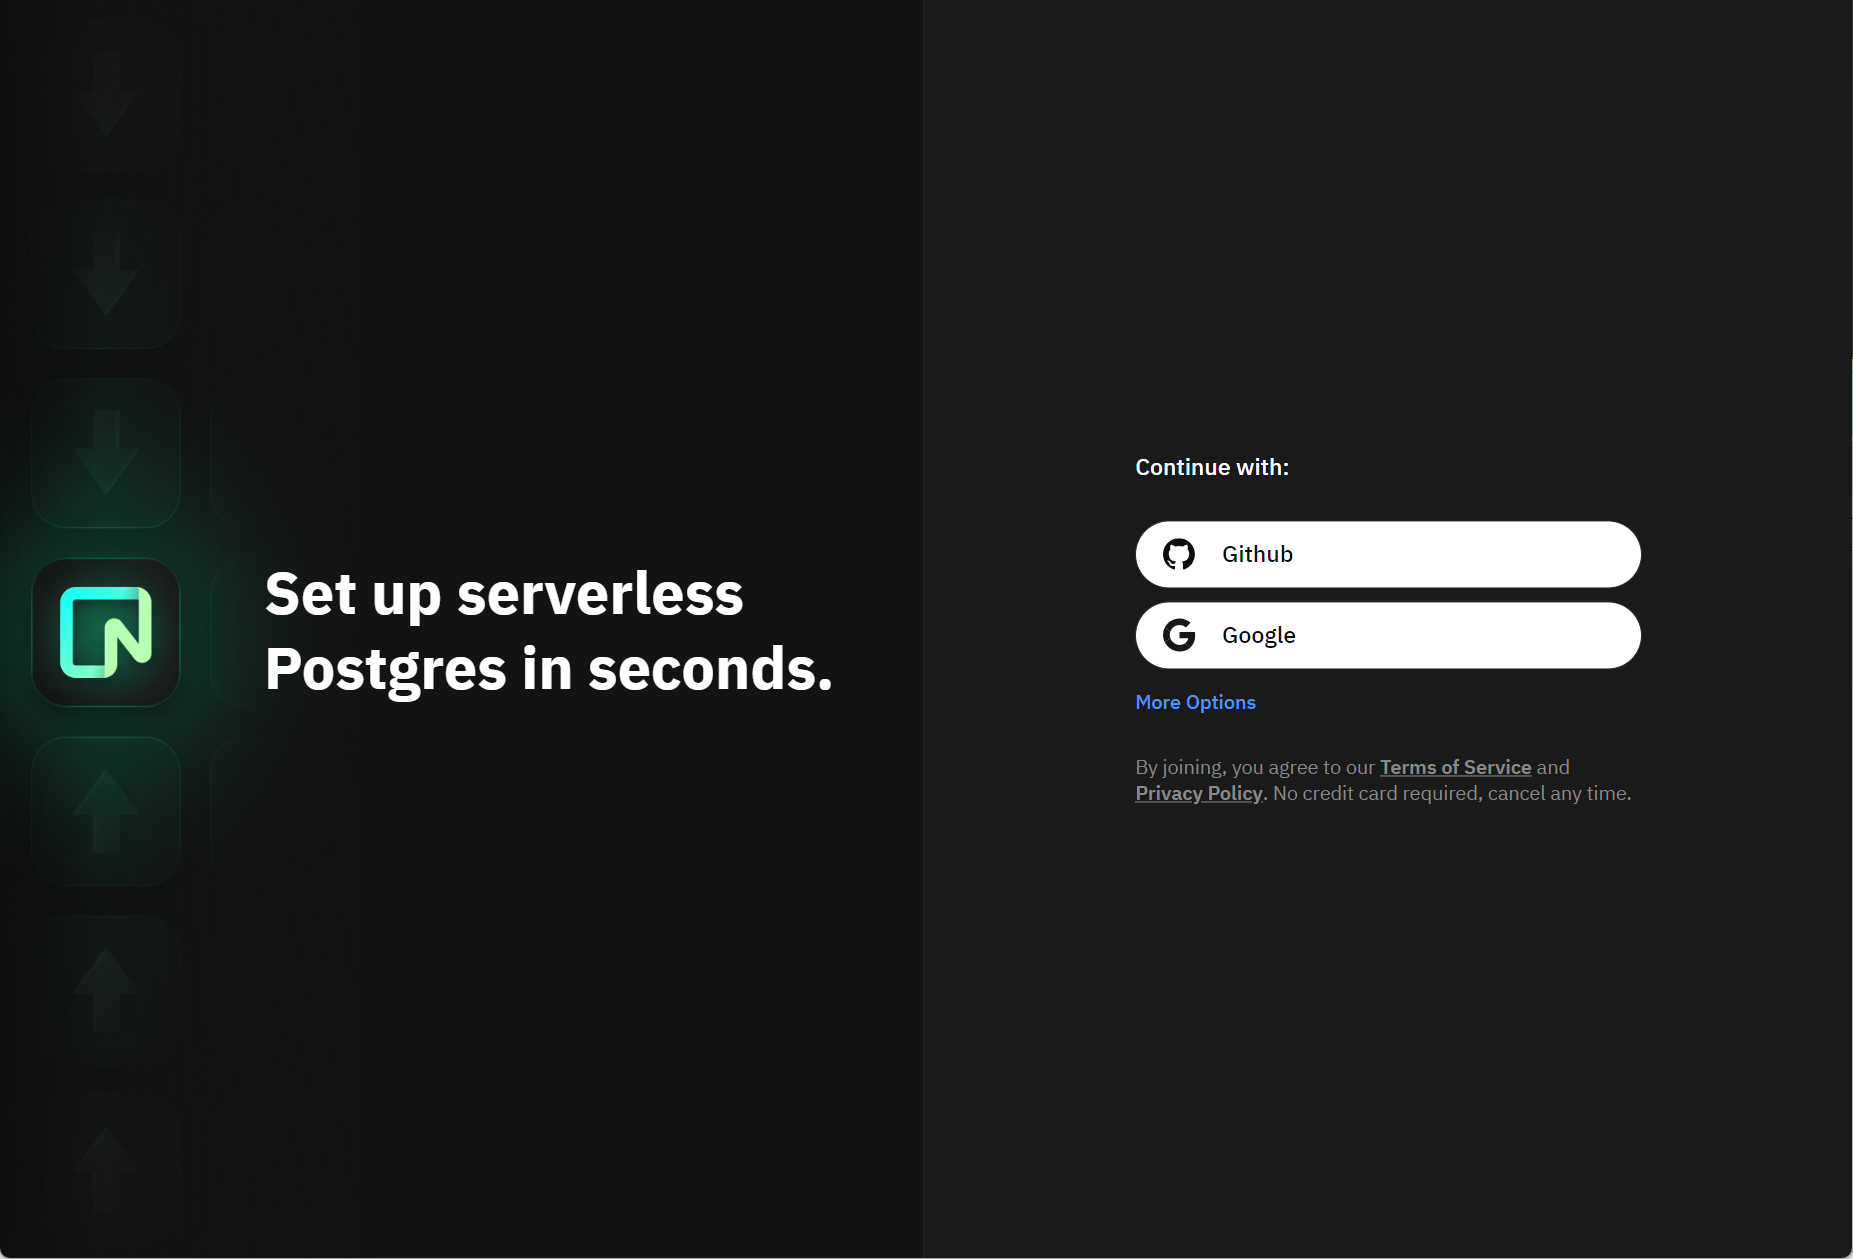
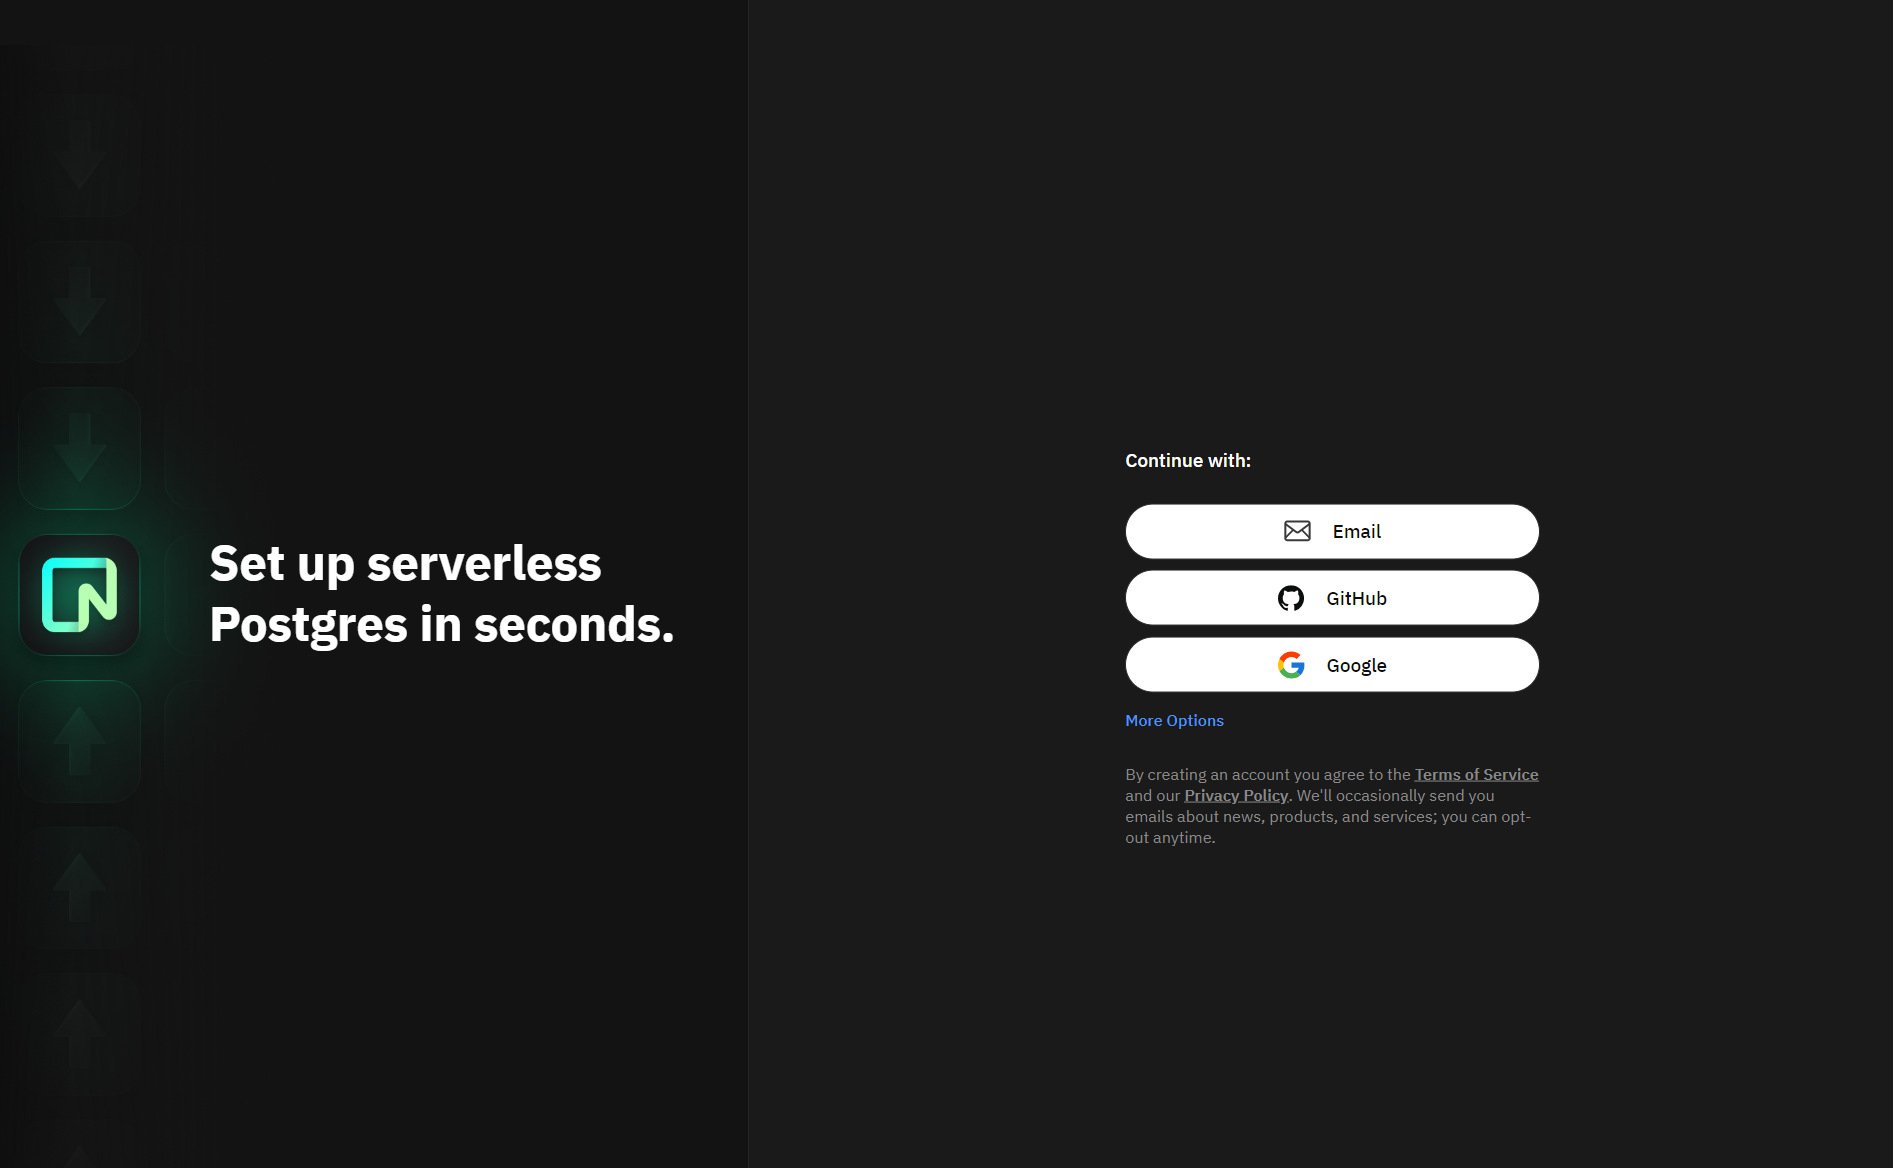
Updates for email login

Changed region(s): [[0.5845, 0.3699, 0.8921, 0.7397], [0.0, 0.4623, 0.4614, 0.5548], [0.9843, 0.9863, 1.0, 1.0]]

diff --git a/content/docs/introduction/pro-plan.md b/content/docs/introduction/pro-plan.md
@@ -32,7 +32,7 @@ The Neon Pro Plan comes with the following advanced features, and we plan to add
 - **Autoscaling:** The _Autoscaling_ feature automatically adjusts compute size based on demand. You set a maximum and minimum compute size, and the Autoscaling feature automatically scales compute resources between those boundaries for optimum performance and cost-efficiency. No manual intervention is required to handle sudden usage spikes, and no downtime is required to reconfigure system resources. Neon Pro Plan users can enable and configure Autoscaling in the Neon Console. For instructions, see [Autoscaling configuration](/docs/manage/endpoints#compute-size-and-autoscaling-configuration).
 - **Larger computes:** The Neon Pro Plan supports computes with up to **7 vCPUs and 28 GB of RAM**, providing the processing power  to handle any workload. By comparison, the Neon Free Tier provides .25 vCPUs and 1GB of RAM, which is great for prototyping and evaluation but less than needed at scale. For configuration instructions, see [Compute size configuration](/docs/manage/endpoints#compute-size-and-autoscaling-configuration).
 - **Configurable Auto-suspend:** The Neon Free Tier automatically suspends computes after 5 minutes of inactivity. With the Neon Neon Pro Plan, you can increase or decrease this time period, or you can disable the Auto-suspend feature entirely. A shorter delay, such as 60 seconds, can potentially reduce compute costs. A longer delay keeps your compute active for longer intervals, reducing the number of cold starts. To prevent cold starts entirely, in cases where even a few seconds delay is too much, you can disable the Auto-suspend feature entirely so that your compute is always active. The Auto-suspend feature is configured in the Neon Console. For instructions, see [Auto-suspend configuration](/docs/manage/endpoints#auto-suspend-configuration).
-- **Project sharing:** The _Project sharing_ feature allows you to share your Neon projects with other Neon users. Project sharing is managed on the **Settings** page in the Neon Console. Simply add the Google or GitHub email account of the user you want to share your project with. Projects can be shared with any Neon user, including Neon Free Tier users. Usage is applied to the project owner's Neon account. For instructions, see [Share a project](/docs/manage/projects#share-a-project).
+- **Project sharing:** The _Project sharing_ feature allows you to share your Neon projects with other Neon users. Project sharing is managed on the **Settings** page in the Neon Console. Simply add the email account of the user you want to share your project with. Projects can be shared with any Neon user, including Neon Free Tier users. Usage is applied to the project owner's Neon account. For instructions, see [Share a project](/docs/manage/projects#share-a-project).
 - **Read replicas:** Neon's read replica feature enhances scalability and performance by allowing you to create read-only compute instances that operate on the same data as your read-write computes. With this feature, you can offload analytics or reporting queries, efficiently distribute read requests to achieve higher throughput, or provide read-only data access to certain users or applications. For more information, see [Read replicas](/docs/introduction/read-replicas).
 
 ### Added support

diff --git a/content/docs/manage/roles.md b/content/docs/manage/roles.md
@@ -7,7 +7,7 @@ redirectFrom:
 updatedOn: '2023-11-02T10:54:40.458Z'
 ---
 
-In Neon, roles are Postgres roles. Each Neon project is created with a default Postgres role that takes its name from your Neon account (the Google, GitHub, or partner account that you registered with). This role owns the ready-to-use database (`neondb`) that is created in your Neon project's primary branch.
+In Neon, roles are Postgres roles. Each Neon project is created with a default Postgres role that takes its name from your Neon account (the email, GitHub, Google, or partner account that you registered with). This role owns the ready-to-use database (`neondb`) that is created in your Neon project's primary branch.
 
 Your default Postgres role and roles created in the Neon console, API, and CLI are granted membership in the [neon_superuser](#the-neon_superuser-role) role. Roles created with SQL from clients like [psql](/docs/connect/query-with-psql-editor), [pgAdmin](https://www.pgadmin.org/), or the [Neon SQL Editor](/docs/get-started-with-neon/query-with-neon-sql-editor) are only granted the basic [public schema privileges](/docs/manage/database-access#public-schema-privileges) granted to newly created roles in a standalone Postgres installation. These users must be selectively granted permissions for each database object. For more information, see [Manage database access](/docs/manage/database-access).
 

diff --git a/content/docs/get-started-with-neon/signing-up.md b/content/docs/get-started-with-neon/signing-up.md
@@ -10,7 +10,7 @@ updatedOn: '2023-10-24T18:56:54.981Z'
 
 You can sign up for free and upgrade to a paid plan when you are ready to scale. For information about our Neon Free Tier limits, see [Neon Free Tier](/docs/introduction/free-tier). For information about Neon's paid plan options, see [Neon plans](/docs/introduction/plans).
 
-Signing up for Neon is easy. Simply navigate to [https://console.neon.tech](https://console.neon.tech) and sign in with a Github or Google account.
+Signing up for Neon is easy. Simply navigate to [https://console.neon.tech](https://console.neon.tech) and sign in with your email, Github, or Google account.
 ![Neon console sign up](/docs/get-started-with-neon/neon_signin.png)
 
 After signing in, you are directed to the Neon Console where you can create your first project. For instructions, see [Create your first project](/docs/get-started-with-neon/setting-up-a-project).

diff --git a/content/docs/guides/project-sharing-guide.md b/content/docs/guides/project-sharing-guide.md
@@ -12,7 +12,7 @@ The [Neon Pro Plan](/docs/introduction/pro-plan) lets you share your Neon projec
 You can share your Neon project with anyone. The only requirement is that the user has a Neon account. The account can be a Neon Free Tier account or Neon Pro Plan account.
 
 1. If the user does not have a Neon account, ask them to sign up. You can provide your users with the following instructions: [Sign up](/docs/get-started-with-neon/signing-up).
-2. Request the email address associated with the account the user signed up with. For example, if the user signed up with their Google account, ask for the email address associated with their Google account.
+2. Request the email address the user signed up with. If the user signed up with a Google or GitHub account account, ask for the email address associated with that account.
 
 ## Share your project
 

diff --git a/content/docs/reference/glossary.md b/content/docs/reference/glossary.md
@@ -231,7 +231,7 @@ A usage-based paid plan offered by Neon. See [Neon plans](/docs/introduction/pla
 
 ### Neon user
 
-The user account that registers and authenticates with Neon using a GitHub or Google account. After authenticating, a Neon user account can create and manage projects, branches, users, databases, and other project resources.
+The user account that registers and authenticates with Neon using an email, GitHub, Google, or partner account. After authenticating, a Neon user account can create and manage projects, branches, users, databases, and other project resources.
 
 ### NeonVM
 

diff --git a/content/docs/manage/overview.md b/content/docs/manage/overview.md
@@ -36,7 +36,7 @@ Neon account
 
 ## Neon account
 
-This is the account you used to sign up with Neon. Neon currently supports signing up with GitHub, Google, or partner accounts.
+This is the account you used to sign up with Neon. Neon supports signing up with an email, GitHub, Google, or partner account.
 
 ## API keys
 
